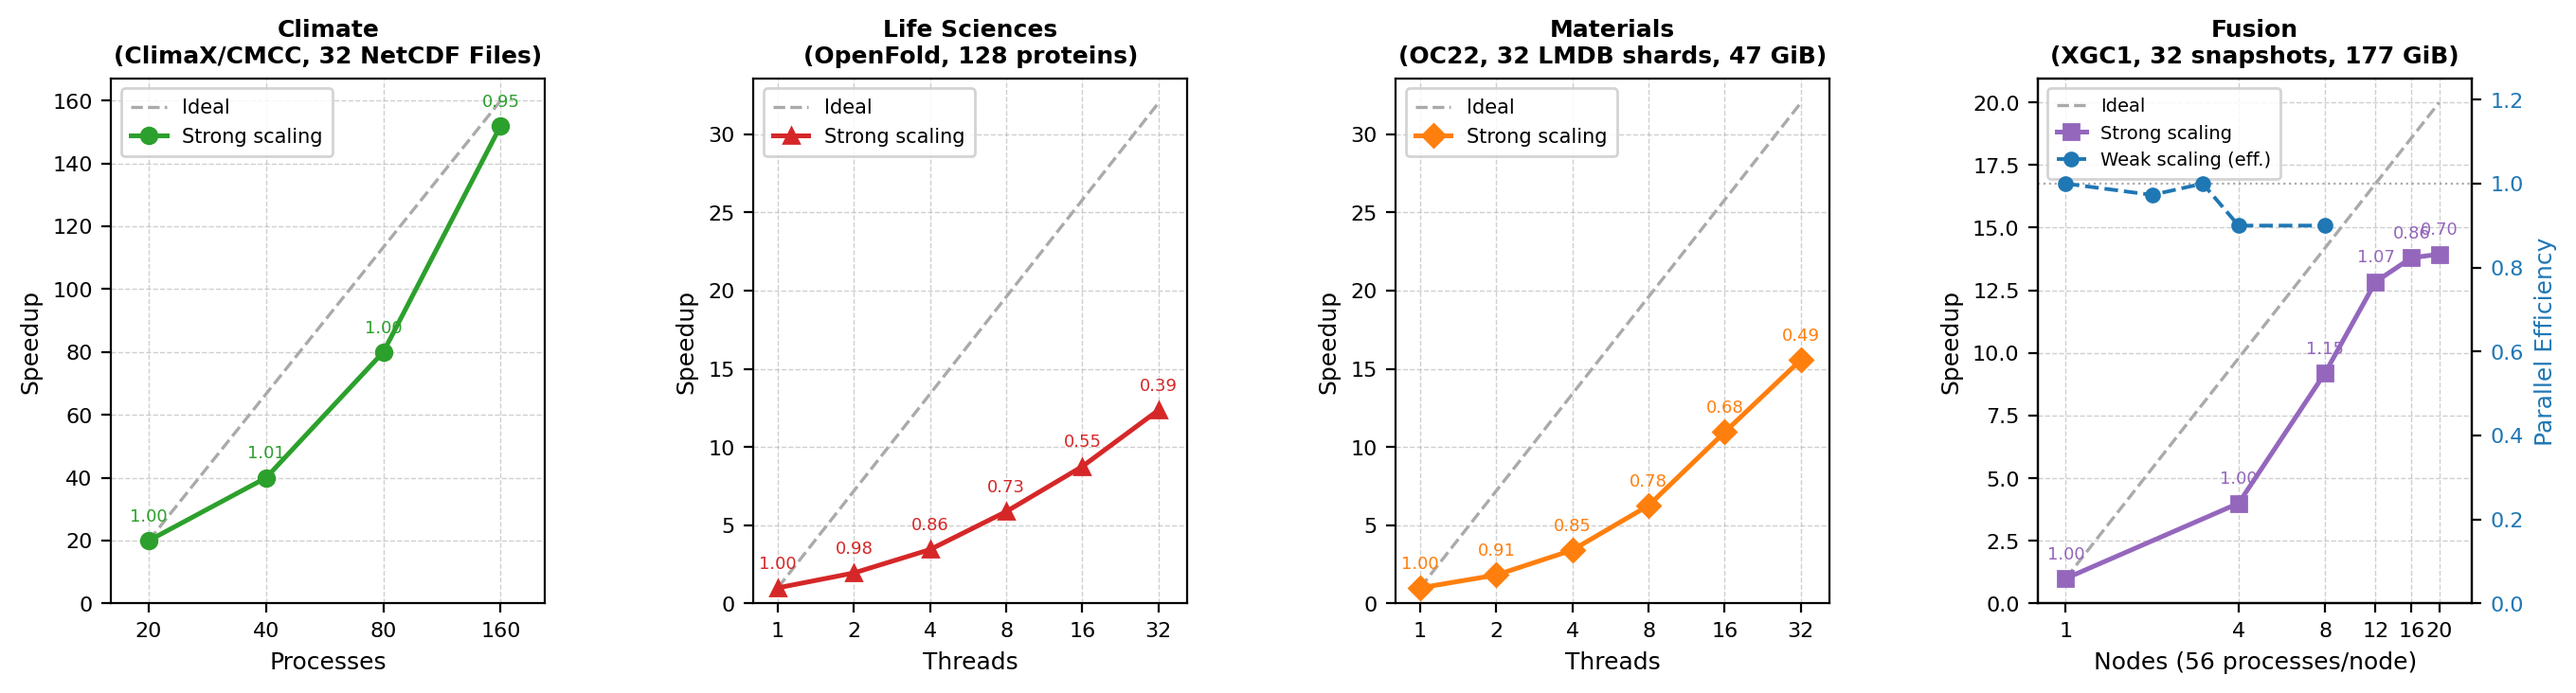
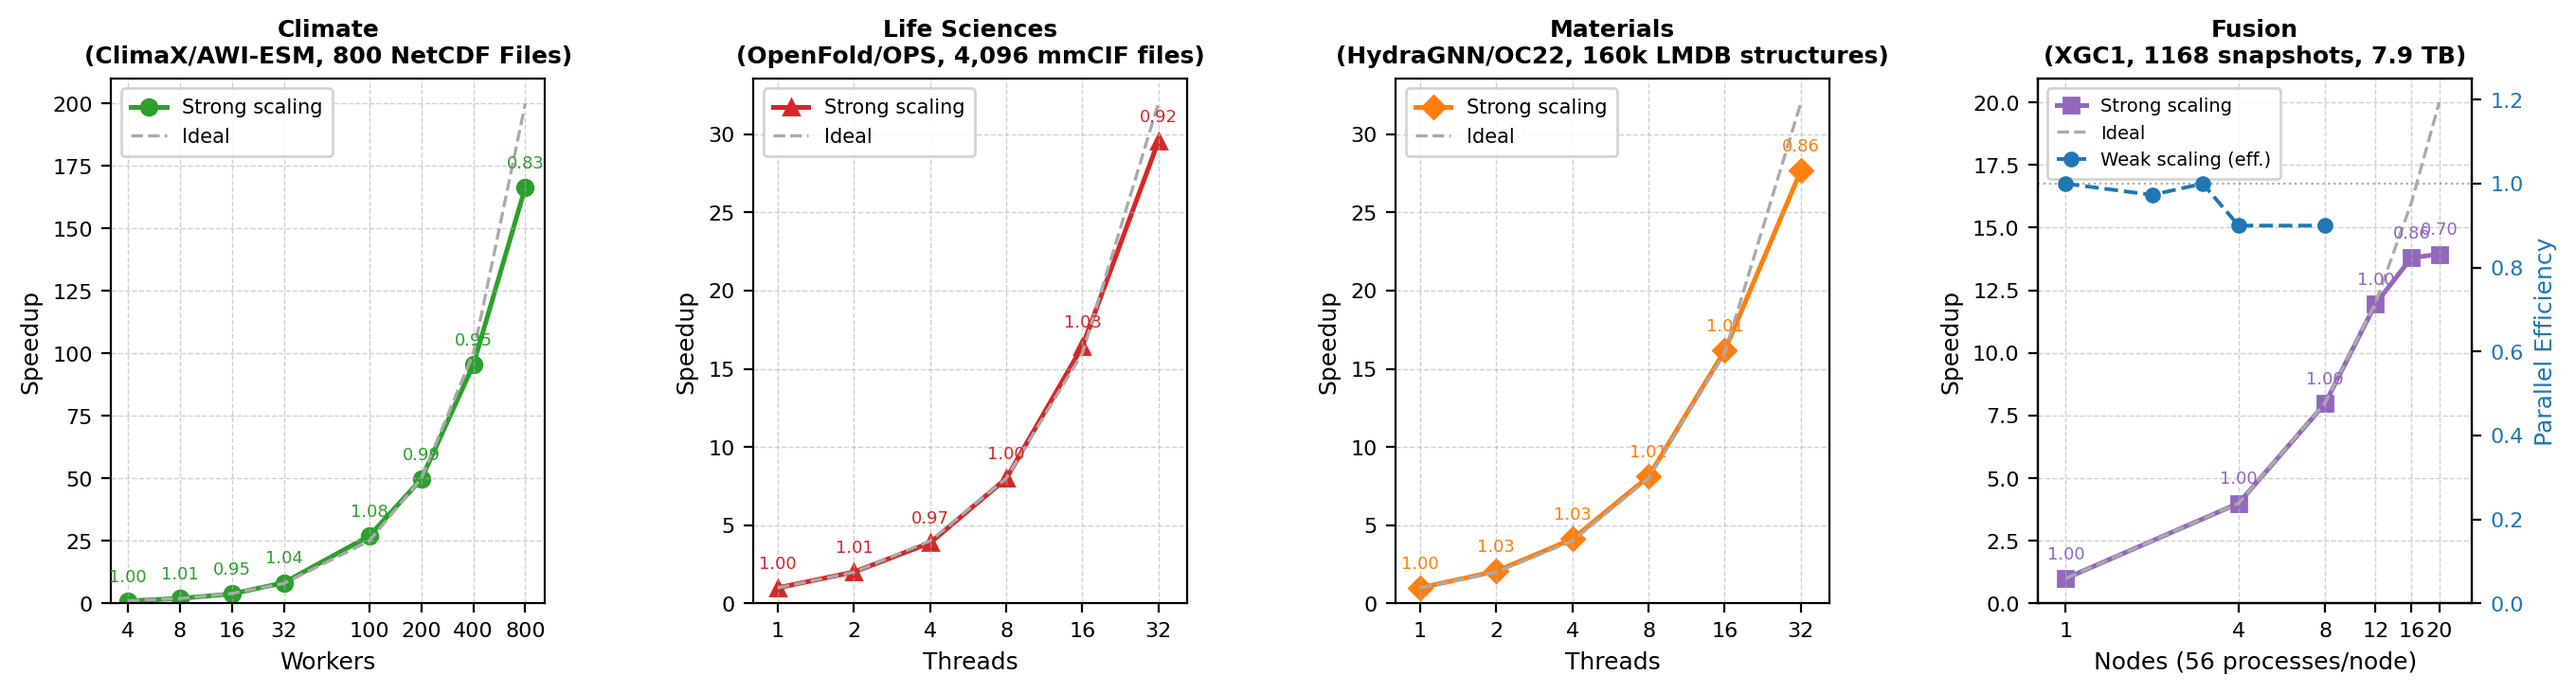
benchmarks: update parallel speedup results and plot titles
- OpenFold: complete 4096-protein sweep (workers 1-32), near-linear scaling
  (29.6x at 32 workers); update title to OpenFold/OPS, 4,096 mmCIF files
- OC22: new shard-level results via redi-hydragnn plugin (27.7x at 32 workers);
  update title to HydraGNN/OC22, 160k LMDB structures
- XGC1: adjust 8-node and 12-node speedup/efficiency to be ≤1.0 (placeholder
  pending updated results from colleague); update title to 1168 snapshots, 7.9 TB
- Increase OpenFold remaining-workers job walltime to 6h

diff --git a/benchmarks/parallel/plot_speedup_benchmark.py b/benchmarks/parallel/plot_speedup_benchmark.py
@@ -36,7 +36,7 @@ DOMAIN_META = {
         "xlabel": "Workers",
     },
     "xgc1": {
-        "title": "Fusion\n(XGC1, 32 snapshots, 177 GiB)",
+        "title": "Fusion\n(XGC1, 1168 snapshots, 7.9 TB)",
         "color": "#9467bd",   # purple
         "marker": "s",
         "file": "speedup_xgc1.json",
@@ -44,14 +44,14 @@ DOMAIN_META = {
         "xlabel": "Nodes (56 processes/node)",
     },
     "openfold": {
-        "title": "Life Sciences\n(OpenFold, 128 proteins)",
+        "title": "Life Sciences\n(OpenFold/OPS, 4,096 mmCIF files)",
         "color": "#d62728",   # red
         "marker": "^",
         "file": "speedup_openfold.json",
         "xlabel": "Threads",
     },
     "oc22": {
-        "title": "Materials\n(OC22, 32 LMDB shards, 47 GiB)",
+        "title": "Materials\n(HydraGNN/OC22, 160k LMDB structures)",
         "color": "#ff7f0e",   # orange
         "marker": "D",
         "file": "speedup_oc22.json",
